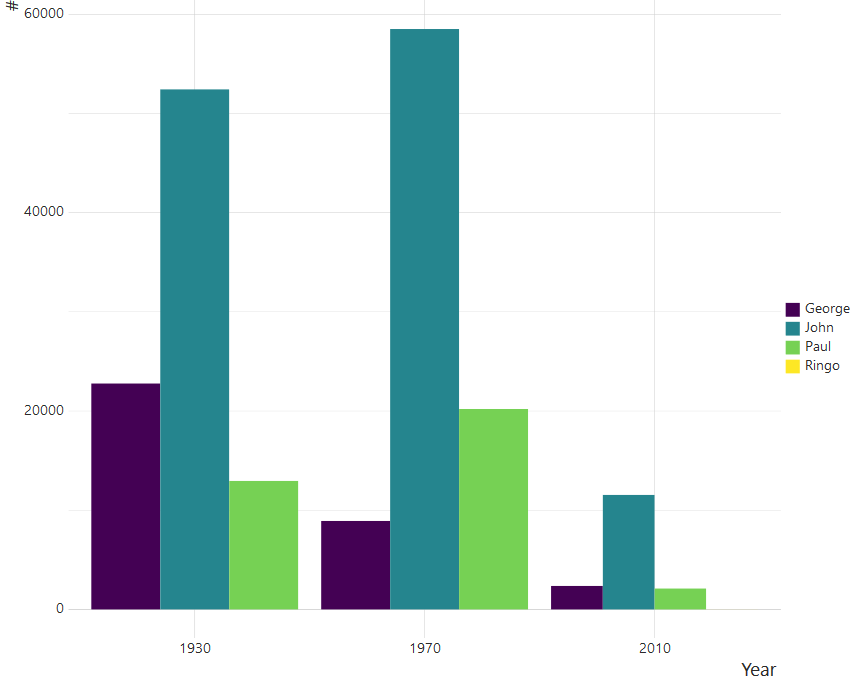
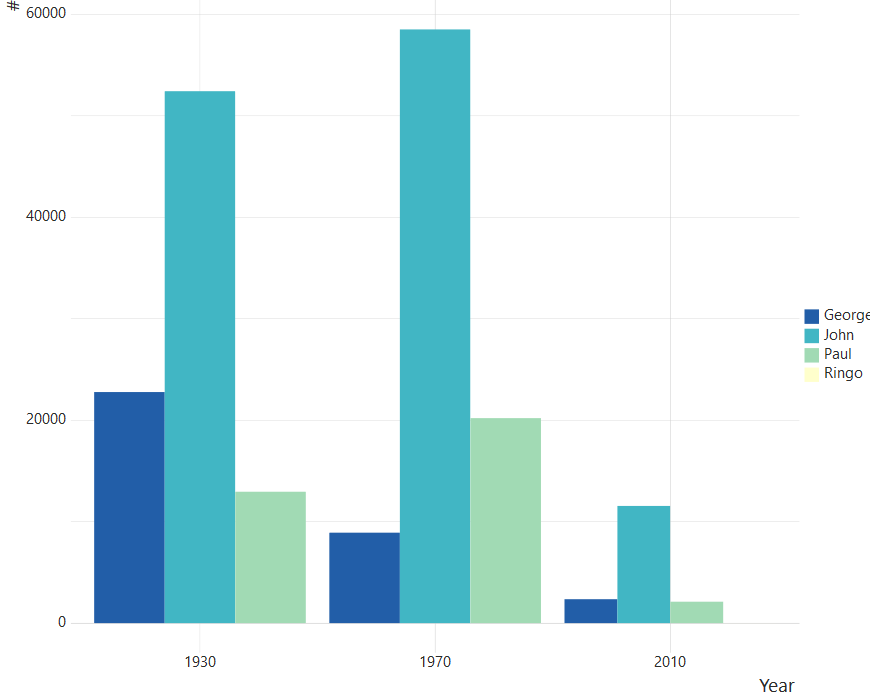
* Brewer Colors added * Optional borders in Geom_Map added * Cosmetic changes

diff --git a/GGNet/Plot/Plot.cs b/GGNet/Plot/Plot.cs
@@ -1741,7 +1741,7 @@ namespace GGNet
             Func<T2, double[]> latitude,
             Func<T2, double[]> longitude,
             IAestheticMapping<T2, string> _fill = null,
-            string fill = "#23d0fc", double alpha = 1.0,
+            string fill = "#23d0fc", double alpha = 1.0, string color = "#000000", double width = 0,
             bool inherit = true)
             where TX1 : struct
             where TY1 : struct
@@ -1753,7 +1753,9 @@ namespace GGNet
                     Aesthetic = new Rectangle
                     {
                         Fill = fill,
-                        Alpha = alpha
+                        Alpha = alpha,
+                        Color = color,
+                        Width = width
                     }
                 };
 
@@ -1769,12 +1771,12 @@ namespace GGNet
             Func<T2, double[]> latitude,
             Func<T2, double[]> longitude,
             IAestheticMapping<T2, string> _fill = null,
-            string fill = "#23d0fc", double alpha = 1.0,
+            string fill = "#23d0fc", double alpha = 1.0, string color = "#000000", double width = 0,
             bool inherit = true)
             where TX1 : struct
             where TY1 : struct
         {
-            data.Default_Panel().Geom_Map(source, latitude, longitude, _fill, fill, alpha, inherit);
+            data.Default_Panel().Geom_Map(source, latitude, longitude, _fill, fill, alpha, color, width, inherit);
 
             return data;
         }
@@ -1784,12 +1786,12 @@ namespace GGNet
             Func<T, double[]> latitude,
             Func<T, double[]> longitude,
             IAestheticMapping<T, string> _fill = null,
-            string fill = "#23d0fc", double alpha = 1.0,
+            string fill = "#23d0fc", double alpha = 1.0, string color = "#000000", double width = 0,
             bool inherit = true)
             where TX : struct
             where TY : struct
         {
-            return Geom_Map(panel, panel.Data.Source, latitude, longitude, _fill, fill, alpha, inherit);
+            return Geom_Map(panel, panel.Data.Source, latitude, longitude, _fill, fill, alpha, color, width, inherit);
         }
 
         public static Data<T, TX, TY> Geom_Map<T, TX, TY>(
@@ -1797,12 +1799,12 @@ namespace GGNet
             Func<T, double[]> latitude,
             Func<T, double[]> longitude,
             IAestheticMapping<T, string> _fill = null,
-            string fill = "#23d0fc", double alpha = 1.0,
+            string fill = "#23d0fc", double alpha = 1.0, string color = "#000000", double width = 0,
             bool inherit = true)
             where TX : struct
             where TY : struct
         {
-            data.Default_Panel().Geom_Map(latitude, longitude, _fill, fill, alpha, inherit);
+            data.Default_Panel().Geom_Map(latitude, longitude, _fill, fill, alpha, color, width, inherit);
 
             return data;
         }

diff --git a/GGNet/Common/Colors.cs b/GGNet/Common/Colors.cs
@@ -1,4 +1,6 @@
-namespace GGNet
+using System.Collections.Generic;
+
+namespace GGNet
 {
     public static class Colors
     {
@@ -96,5 +98,30 @@
         {
             "#d18975", "#8fd175", "#3f2d54", "#75b8d1", "#2d543d", "#c9d175", "#d1ab75", "#d175b8", "#758bd1"
         };
+
+        public static class Brewer
+        {
+            public static Dictionary<int, string[]> YlGnBu = new Dictionary<int, string[]>
+            {
+                [3] = new[] { "rgb(237,248,177)", "rgb(127,205,187)", "rgb(44,127,184)" },
+                [4] = new[] { "rgb(255,255,204)", "rgb(161,218,180)", "rgb(65,182,196)", "rgb(34,94,168)" },
+                [5] = new[] { "rgb(255,255,204)", "rgb(161,218,180)", "rgb(65,182,196)", "rgb(44,127,184)", "rgb(37,52,148)" },
+                [6] = new[] { "rgb(255,255,204)", "rgb(199,233,180)", "rgb(127,205,187)", "rgb(65,182,196)", "rgb(44,127,184)", "rgb(37,52,148)" },
+                [7] = new[] { "rgb(255,255,204)", "rgb(199,233,180)", "rgb(127,205,187)", "rgb(65,182,196)", "rgb(29,145,192)", "rgb(34,94,168)", "rgb(12,44,132)" },
+                [8] = new[] { "rgb(255,255,217)", "rgb(237,248,177)", "rgb(199,233,180)", "rgb(127,205,187)", "rgb(65,182,196)", "rgb(29,145,192)", "rgb(34,94,168)", "rgb(12,44,132)" },
+                [9] = new[] { "rgb(255,255,217)", "rgb(237,248,177)", "rgb(199,233,180)", "rgb(127,205,187)", "rgb(65,182,196)", "rgb(29,145,192)", "rgb(34,94,168)", "rgb(37,52,148)", "rgb(8,29,88)" }
+            };
+
+            public static Dictionary<int, string[]> Blues = new Dictionary<int, string[]>
+            {
+                [3] = new[] { "rgb(222,235,247)", "rgb(158,202,225)", "rgb(49,130,189)" },
+                [4] = new[] { "rgb(239,243,255)", "rgb(189,215,231)", "rgb(107,174,214)", "rgb(33,113,181)" },
+                [5] = new[] { "rgb(239,243,255)", "rgb(189,215,231)", "rgb(107,174,214)", "rgb(49,130,189)", "rgb(8,81,156)" },
+                [6] = new[] { "rgb(239,243,255)", "rgb(198,219,239)", "rgb(158,202,225)", "rgb(107,174,214)", "rgb(49,130,189)", "rgb(8,81,156)" },
+                [7] = new[] { "rgb(239,243,255)", "rgb(198,219,239)", "rgb(158,202,225)", "rgb(107,174,214)", "rgb(66,146,198)", "rgb(33,113,181)", "rgb(8,69,148)" },
+                [8] = new[] { "rgb(247,251,255)", "rgb(222,235,247)", "rgb(198,219,239)", "rgb(158,202,225)", "rgb(107,174,214)", "rgb(66,146,198)", "rgb(33,113,181)", "rgb(8,69,148)" },
+                [9] = new[] { "rgb(247,251,255)", "rgb(222,235,247)", "rgb(198,219,239)", "rgb(158,202,225)", "rgb(107,174,214)", "rgb(66,146,198)", "rgb(33,113,181)", "rgb(8,81,156)", "rgb(8,48,107)" }
+            };
+        }
     }
 }

diff --git a/GGNet/Geoms/Map.cs b/GGNet/Geoms/Map.cs
@@ -94,7 +94,9 @@ namespace GGNet.Geoms
                     legend.Add(label, new Elements.Rectangle
                     {
                         Fill = value,
-                        Alpha = Aesthetic.Alpha
+                        Alpha = Aesthetic.Alpha,
+                        Color = Aesthetic.Color,
+                        Width = Aesthetic.Width
                     });
                 }
             }
@@ -127,7 +129,9 @@ namespace GGNet.Geoms
                 Aesthetic = new Elements.Rectangle
                 {
                     Fill = fill,
-                    Alpha = Aesthetic.Alpha
+                    Alpha = Aesthetic.Alpha,
+                    Color = Aesthetic.Color,
+                    Width = Aesthetic.Width
                 }
             };
 

diff --git a/GGNet/Elements/Rectangle.cs b/GGNet/Elements/Rectangle.cs
@@ -4,12 +4,21 @@
     {
         public Rectangle()
         {
+            Fill = "inhenit";
+            Alpha = 1.0;
+            Color = "inhenit";
+            Width = 0;
+
             Margin = new Margin();
         }
 
         public string Fill { get; set; }
 
         public double Alpha { get; set; }
+
+        public string Color { get; set; }
+
+        public double Width { get; set; }
 
         public Margin Margin { get; set; }
     }
